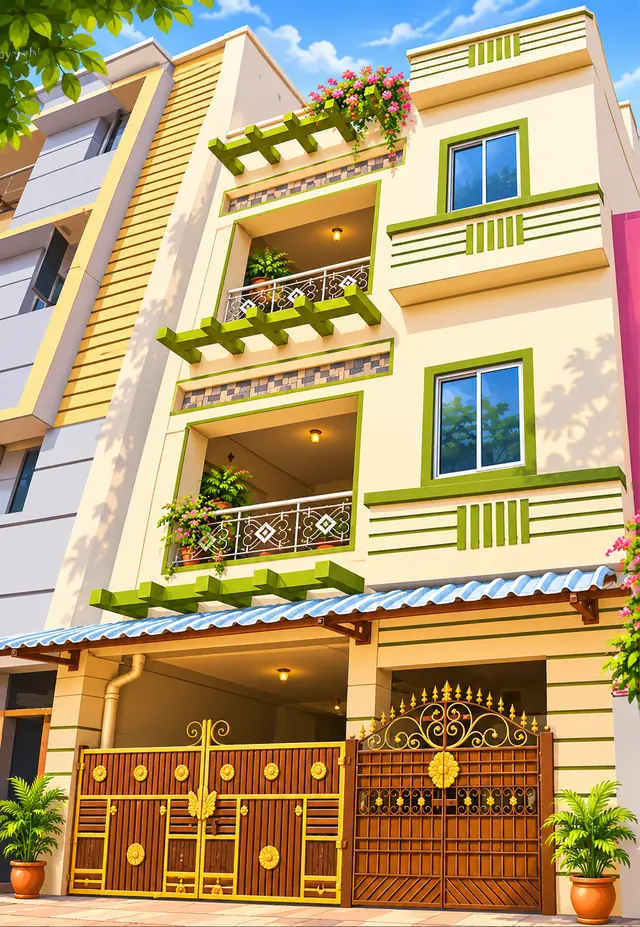
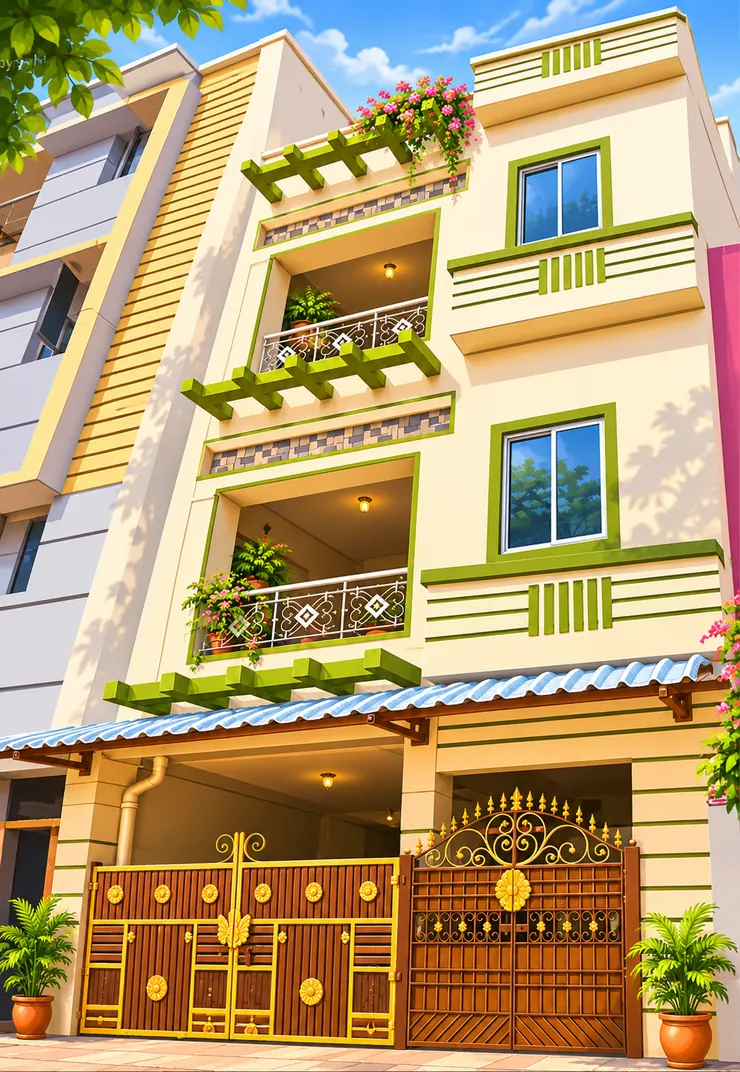
Use four approved cartoon location illustrations in invitation story

diff --git a/index.html b/index.html
@@ -234,8 +234,18 @@
             <p class="final-intro">With the blessings of God and our beloved families, we are delighted to invite you to the wedding celebrations of</p>
             <h3 class="final-names">Giridharan <span>♥</span> Padma Priya</h3>
             <div class="events-grid">
-              <article class="event-card marriage-card"><div class="card-corner">♡</div><div class="event-type">The wedding</div><h4>Marriage</h4><p class="event-date"><svg><use href="#icon-calendar"></use></svg><span id="weddingDateText">Monday, 8 February 2027</span></p><p class="event-time" id="weddingTimeText">4:30 AM – 6:00 AM</p><p class="event-venue" id="weddingVenueText">Arulmigu Sri Selvamuthukumaraswamy Temple<br>Maraimalai Nagar</p><a class="card-link" id="weddingMap" href="#" target="_blank" rel="noopener noreferrer"><svg><use href="#icon-map"></use></svg> Temple directions <span>↗</span></a></article>
-              <article class="event-card reception-card"><div class="card-corner">♥</div><div class="event-type">The celebration</div><h4>Reception</h4><p class="event-date"><svg><use href="#icon-calendar"></use></svg><span id="receptionDateText">Monday, 8 February 2027</span></p><p class="event-time" id="receptionTimeText">6:30 PM onwards</p><p class="event-venue" id="receptionVenueText">Sri Alwaar Palace<br>Kattankulathur</p><a class="card-link" id="receptionMap" href="#" target="_blank" rel="noopener noreferrer"><svg><use href="#icon-map"></use></svg> Reception directions <span>↗</span></a></article>
+              <article class="event-card marriage-card"><div class="card-corner">♡</div><div class="event-type">The wedding</div><h4>Marriage</h4>
+              <a class="venue-art wedding-illustration" href="assets/temple-storybook.webp" target="_blank" rel="noopener noreferrer" aria-label="View full cartoon illustration of the wedding temple">
+                <span class="venue-art-image"><img src="assets/temple-storybook.webp" alt="Approved colorful storybook illustration of Sri Selvamuthukumaraswamy Temple, showing its detailed South Indian gopuram and entrance" width="750" height="1333" loading="lazy" decoding="async"></span>
+                <span class="venue-art-caption">The wedding temple <span aria-hidden="true">↗</span></span>
+              </a>
+              <p class="event-date"><svg><use href="#icon-calendar"></use></svg><span id="weddingDateText">Monday, 8 February 2027</span></p><p class="event-time" id="weddingTimeText">4:30 AM – 6:00 AM</p><p class="event-venue" id="weddingVenueText">Arulmigu Sri Selvamuthukumaraswamy Temple<br>Maraimalai Nagar</p><a class="card-link" id="weddingMap" href="#" target="_blank" rel="noopener noreferrer"><svg><use href="#icon-map"></use></svg> Temple directions <span>↗</span></a></article>
+              <article class="event-card reception-card"><div class="card-corner">♥</div><div class="event-type">The celebration</div><h4>Reception</h4>
+              <a class="venue-art reception-illustration" href="assets/alwaar-palace-storybook.webp" target="_blank" rel="noopener noreferrer" aria-label="View full cartoon illustration of Sri Alwaar Palace">
+                <span class="venue-art-image"><img src="assets/alwaar-palace-storybook.webp" alt="Approved cream-and-gold storybook illustration of Sri Alwaar Palace, showing its arched glass facade and grand entrance" width="750" height="1333" loading="lazy" decoding="async"></span>
+                <span class="venue-art-caption">Sri Alwaar Palace <span aria-hidden="true">↗</span></span>
+              </a>
+              <p class="event-date"><svg><use href="#icon-calendar"></use></svg><span id="receptionDateText">Monday, 8 February 2027</span></p><p class="event-time" id="receptionTimeText">6:30 PM onwards</p><p class="event-venue" id="receptionVenueText">Sri Alwaar Palace<br>Kattankulathur</p><a class="card-link" id="receptionMap" href="#" target="_blank" rel="noopener noreferrer"><svg><use href="#icon-map"></use></svg> Reception directions <span>↗</span></a></article>
             </div>
             <div class="invitation-buttons">
               <button type="button" id="calendarDownload" class="action-pill primary"><svg><use href="#icon-calendar"></use></svg> Add to calendar</button>

diff --git a/style.css b/style.css
@@ -46,3 +46,19 @@
 @media(max-width:760px){.stage-three{padding-top:calc(104px + env(safe-area-inset-top));padding-bottom:40px}.stage-three .headline-top{font-size:clamp(29px,7.4vw,44px);line-height:1.02}.family-sketch.house-pair{width:min(470px,95vw);gap:8px;margin:12px auto 16px}.house-card{padding:5px 5px 4px}.house-card .house-image{height:clamp(140px,22vh,205px)}.house-card figcaption{font-size:clamp(18px,5vw,24px);padding-top:8px}.houses-link{top:37%;width:52px}.stage-three .sticky-note{max-width:88vw}}
 @media(max-width:400px){.stage-three .headline-top{font-size:clamp(27px,7.1vw,36px)}.house-card .house-image{height:clamp(130px,21vh,175px)}.family-sketch.house-pair{width:94vw;margin:8px auto 14px}.stage-three .sticky-note p{font-size:clamp(21px,6vw,26px)}}
 @media(prefers-reduced-motion:reduce){.house-card img{transition:none}}
+
+/* The four approved location illustrations: two family homes + wedding and reception venues. */
+.venue-art{display:block;position:relative;isolation:isolate;overflow:hidden;max-width:380px;margin:2px auto 19px;background:#fff4e4;border:1px solid #ceb499;border-radius:12px;box-shadow:0 7px 19px #72524427;text-decoration:none;color:inherit;transition:box-shadow .4s ease,transform .6s cubic-bezier(.2,.7,.2,1),opacity .6s ease}
+.venue-art-image{height:clamp(240px,29vw,340px);position:relative;isolation:isolate;display:grid;place-items:center;overflow:hidden;background:#f7e9d1}
+.venue-art-image::before{content:"";position:absolute;inset:-12px;z-index:0;background-position:center;background-size:cover;filter:blur(15px) saturate(.85);opacity:.31;transform:scale(1.06)}
+.wedding-illustration .venue-art-image::before{background-image:url('assets/temple-storybook.webp')}
+.reception-illustration .venue-art-image::before{background-image:url('assets/alwaar-palace-storybook.webp')}
+.venue-art-image img{position:relative;z-index:1;display:block;height:100%;width:100%;object-fit:contain;filter:drop-shadow(0 4px 9px #794d3933);transition:transform .55s ease}
+.venue-art-caption{display:flex;align-items:center;justify-content:space-between;gap:6px;padding:12px 14px;font:700 12px/1.35 var(--sans);letter-spacing:.025em;color:#764434;text-align:left;background:#fff6e7}
+.venue-art-caption span{color:var(--red);font-size:19px;line-height:12px}
+.venue-art.animated-venue{opacity:0;transform:translateY(24px) scale(.97)}
+.venue-art.animated-venue.in-view{opacity:1;transform:translateY(0) scale(1)}
+@media(hover:hover){.venue-art:hover{box-shadow:0 12px 27px #7650473d;transform:translateY(-3px)}.venue-art:hover img{transform:scale(1.03)}}
+@media(max-width:760px){.venue-art{width:100%;max-width:440px;margin:2px auto 16px;border-radius:10px}.venue-art-image{height:clamp(250px,83vw,360px)}.venue-art-caption{padding:11px 12px;font-size:12px}.event-card{max-width:100%}}
+@media(max-width:380px){.venue-art-image{height:clamp(220px,80vw,295px)}.venue-art-caption{font-size:11px}}
+@media(prefers-reduced-motion:reduce){.venue-art,.venue-art.animated-venue,.venue-art.animated-venue.in-view,.venue-art-image img{opacity:1!important;transform:none!important;transition:none!important}}

diff --git a/script.js b/script.js
@@ -391,3 +391,23 @@ requestAnimationFrame(()=>requestAnimationFrame(()=>{buildTrail();update();}));
 if(document.fonts?.ready) document.fonts.ready.then(()=>{buildTrail();requestFrame();});
 if(reduceMotion) {video.pause();video.setAttribute('poster','assets/opening-poster.webp');}
 
+
+/* Reveal the temple and reception illustrations when visitors scroll to them.
+   Default styling stays visible if JavaScript or IntersectionObserver is unavailable. */
+const venueIllustrations = [...document.querySelectorAll('.venue-art')];
+if (!reduceMotion && 'IntersectionObserver' in window) {
+  const venueObserver = new IntersectionObserver((entries, observer) => {
+    entries.forEach(entry => {
+      if (entry.isIntersecting) {
+        entry.target.classList.add('in-view');
+        observer.unobserve(entry.target);
+      }
+    });
+  }, { threshold: 0.13, rootMargin: '0px 0px -4% 0px' });
+  venueIllustrations.forEach(illustration => {
+    illustration.classList.add('animated-venue');
+    venueObserver.observe(illustration);
+  });
+} else {
+  venueIllustrations.forEach(illustration => illustration.classList.add('in-view'));
+}

diff --git a/README.md b/README.md
@@ -18,3 +18,14 @@ The site is static and can be deployed with Netlify; no build command or databas
 **Check details before publishing.** The ceremony time and temple were taken from the supplied invitation image and have not been separately confirmed. Reception: 8 February 2027, evening, Sri Alwaar Palace, Kattankulathur. Update `CONFIG` at the top of `script.js` and corresponding fallback text in `index.html` if required.
 
 **Original intro note:** The included `assets/opening.mp4` is the optimized ~8-second opening animation to load quickly on mobile.
+
+## Approved cartoon illustrations
+
+All four approved location images are included in `assets/` and displayed in the website:
+
+- `giri-house.webp`: corrected KING FITNESS building with the actual two-level facade, lower shops, and front gate; appears in Chapter 3.
+- `priya-house.webp`: Priya's cream-and-green house with balconies and ornate gates; appears in Chapter 3.
+- `temple-storybook.webp`: illustrated temple based on your temple photo, shown on the wedding details card in Chapter 8.
+- `alwaar-palace-storybook.webp`: illustrated Sri Alwaar Palace based on your venue photo, shown on the reception details card in Chapter 8.
+
+Venue pictures can be tapped to open the complete illustration. They are optimized WebP files and reveal gently when scrolled into view; the reduced-motion option keeps them static.
